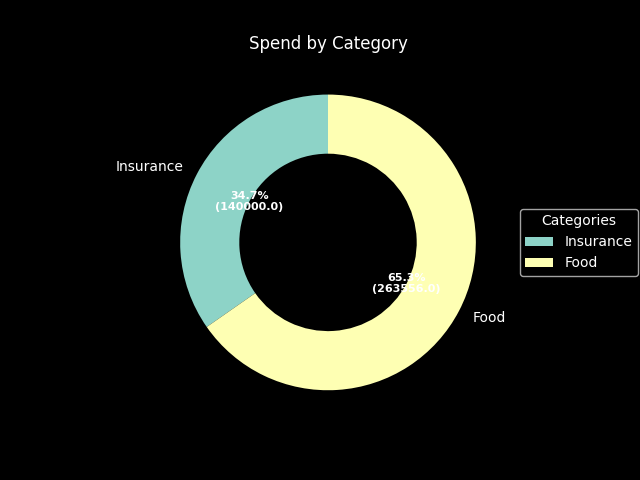
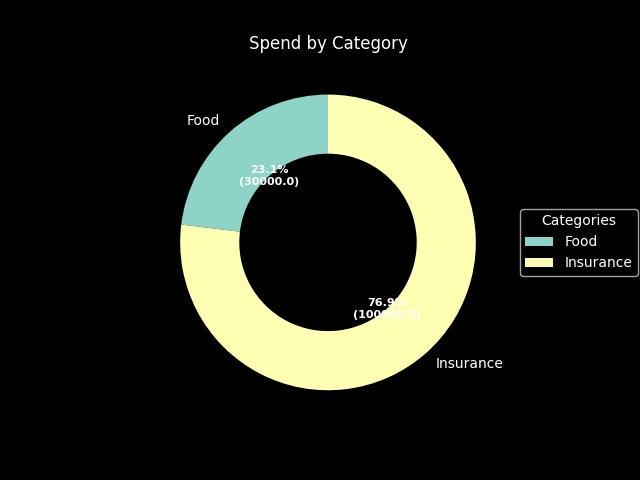
manage transaction feature added

diff --git a/final_project/templates/manage_transactions.html b/final_project/templates/manage_transactions.html
@@ -1,0 +1,143 @@
+{% extends "layout.html" %}
+
+{% block title %}Index{% endblock %}
+
+{% block main %}
+
+<!-- Date filter form -->
+<p class="d-inline-flex gap-1">
+  <button class="btn btn-primary" type="button" data-bs-toggle="collapse" data-bs-target="#multiCollapseExample1" aria-expanded="false" aria-controls="multiCollapseExample1">
+    Filter
+  </button>
+</p>
+<div class="collapse multi-collapse" id="multiCollapseExample1">
+  <div class="card card-body">
+    <p>Date Range</p>
+    <form action="/manage_transactions" method="post">
+        <div class="mb-3">
+            <input autocomplete="off" class="form-control" name="start" placeholder="start date" required type="date">
+        </div>
+        <div class="mb-3">
+            <input autocomplete="off" class="form-control" name="end" placeholder="end date" required type="date">
+        </div>
+         <button class="btn btn-primary" name="transFilter" type="submit">submit</button>
+    </form>
+  </div>
+</div>
+
+    
+    <!-- Table to show user expense transactions-->
+    <table class="table table-striped">
+        <thead>
+            <tr>
+                <th>Account</th>
+                <th>Type</th>
+                <th>Category</th>
+                <th>Date</th>
+                <th>Amount(CHE)</th>
+                <th>Manage Transaction</th>
+            </tr>
+        </thead>
+        <tbody>
+            {% for trans in transactions %}
+            <tr>
+                <td>
+                    {% for account in accounts %}
+                        {% if account.id == trans.account_id %}
+                            {{ account.account_name}}
+                        {% endif %}
+                    {% endfor %}
+                </td>
+                <td>
+                    {{ trans.trans_type }}
+                </td>
+
+                <td>
+                    {{ trans.category }}
+                </td>
+
+                <td>
+                    {{ trans.trans_date }}
+                </td>
+
+                <td>
+                    {{ trans.amount_cents }}
+                </td>
+
+                <td>
+                    <div class="dropdown">
+                        <button class="btn btn-secondary dropdown-toggle" type="button" data-bs-toggle="dropdown" aria-expanded="false">
+                            Options
+                        </button>
+                        <ul class="dropdown-menu">
+
+                            <li>
+                                <form action="/delete_transaction" method="post">
+                                    <button class="dropdown-item" name="deleteTrans" type="submit" value="{{ trans.id }}">Delete</button>
+                                </form>
+                            </li>
+
+                            <li>
+                                <form action="/edit_transactions" method="post">
+                                <button class="dropdown-item" name="editTrans" type="submit" value="{{ trans.id }}">Edit</button>
+                                </form>
+                            </li>
+
+                        </ul>
+                    </div>
+                </td>
+            </tr>
+            {% endfor %}
+        </tbody>
+    </table>
+
+    <!-- Add transaction -->
+
+<p class="d-inline-flex gap-1">
+  <button class="btn btn-primary" type="button" data-bs-toggle="collapse" data-bs-target="#multiCollapseExample2" aria-expanded="false" aria-controls="multiCollapseExample2">
+    Add Transaction
+  </button>
+</p>
+<div class="collapse multi-collapse"" id="multiCollapseExample2">
+  <div class="card card-body">
+        <form action="/add_transaction" method="post">
+
+        <div class="mb-3">
+            <select class="form-control" name="account" required>
+                {% for account in accounts %}
+                    <option value="{{ account.id }}">{{ account.account_name }}</option>
+                {% endfor %}
+            </select>
+        </div> 
+
+        <div class="mb-3">
+            <select class="form-control" name="type">
+                {% for type in types %}
+                    <option value="{{ type }}">{{ type }}</option>
+                {% endfor %}
+            </select>
+        </div> 
+
+        <div class="mb-3">
+            <select class="form-control" name="category">
+                {% for category in categories %}
+                    <option value="{{ category.name }}">{{ category.name }}</option>
+                {% endfor %}
+            </select>
+        </div> 
+
+        <div class="mb-3">
+            <input autocomplete="off" class="form-control" min="0.00" name="amount" placeholder="€0.00" required step="0.01" type="number">
+        </div>
+
+        <div class="mb-3">
+            <input autocomplete="off" class="form-control" name="date" placeholder="today" required type="date">
+        </div>
+        <button class="btn btn-primary" name="addExpense" type="submit">Submit</button>
+
+    </form>
+
+  </div>
+</div>
+
+{% endblock %}

diff --git a/final_project/templates/layout.html b/final_project/templates/layout.html
@@ -36,6 +36,9 @@
                     <li class="nav-item">
                     <a class="nav-link" href="/add_transaction">Add Transaction</a>
                     </li>
+                    <li class="nav-item">
+                    <a class="nav-link" href="/manage_transactions">Manage Transaction</a>
+                    </li>
                 </ul>
                 <ul class="navbar-nav">
                   <li class="nav-item">

diff --git a/final_project/app.py b/final_project/app.py
@@ -5,7 +5,7 @@ from dateutil.relativedelta import relativedelta
 from decimal import Decimal, ROUND_HALF_UP
 from flask import Flask, flash, redirect, render_template, Response, request, session
 from flask_session import Session
-from helpers import conDbDict, getBar, getLine, getPie, getTrans, getUser
+from helpers import conDbDict, getBar, getLine, getPie, getTrans, getTransDate, getUser
 import matplotlib
 matplotlib.use("Agg")
 import matplotlib.dates as mdates
@@ -70,7 +70,7 @@ def add_cat():
             cur.execute("INSERT INTO categories (name, user_id) values (?, ?)", (newCat, user["id"],))
             con.commit()
             # Close connection and redirect to index
-            con.close
+            con.close()
             return redirect("/add_transaction")
 
     else:
@@ -123,12 +123,28 @@ def add_transaction():
                 return render_template("error.html", message="invalid type submission")
         
         # Insert into DB, close connection & redirect
-        cur.execute("INSERT INTO transactions (account_id, amount_cents, category, created_by_user_id, trans_date, trans_type) values (?, ?, ?, ?, ?, ?)", (account, amount_cents, category, user["id"], date, trans_type))
+        cur.execute("INSERT INTO transactions (account_id, amount_cents, category, created_by_user_id, trans_date, trans_type) values (?, ?, ?, ?, ?, ?)", (account, amount_cents, category, user["id"], date, trans_type,))
         con.commit()
 
         con.close()
 
-        return redirect("/add_transaction")
+        return redirect(request.referrer or "/manage_transactions")
+
+
+@app.route("/delete_transaction", methods=["POST"])
+def delete_transaction():
+
+    transId = request.form.get("deleteTrans")
+
+    con = conDbDict()
+    cur = con.cursor()
+
+    cur.execute("DELETE FROM transactions WHERE id = ?", (transId,))
+    con.commit()
+    con.close()
+
+    return redirect("/manage_transactions")
+
 
 # Generate Charts
 @app.route("/get_charts", methods=["GET", "POST"])
@@ -210,8 +226,7 @@ def get_charts():
         user = getUser()
 
         # Fetch user transaction
-        transactions = cur.execute("SELECT amount_cents, category, trans_date, trans_type FROM transactions where created_by_user_id = ? AND trans_date BETWEEN ? and ? ORDER BY trans_date", (user["id"], start, end,)).fetchall()
-
+        transactions = getTransDate(start, end)
         # Get user Accounts
         accounts = cur.execute("SELECT account_name, balance_cents, id FROM accounts WHERE user_id = ?", (user["id"],)).fetchall()
                
@@ -272,6 +287,48 @@ def logout():
     #redirect to index
     return redirect("/")
 
+
+@app.route("/manage_transactions", methods = ["GET", "POST"])
+def manage_transactions():
+
+    if (request.method == "GET"):
+
+        # Set start and end dates as first and last day of current month
+        # Todo: this code is repeated fit whole transaction date setting into helper function
+        current_date = date.today()
+        start = current_date + relativedelta(day=1)
+        end = current_date + relativedelta(day=31)
+        
+        trasactions = getTransDate(start, end)
+
+        con = conDbDict()
+        cur = con.cursor()
+
+        user = getUser()
+
+        accounts = cur.execute("SELECT account_name, balance_cents, id FROM accounts WHERE user_id = ?", (user["id"],)).fetchall()
+        categories = cur.execute("SELECT name FROM categories WHERE user_id = ?", (user["id"],)).fetchall()
+
+        return render_template("manage_transactions.html", accounts=accounts, categories=categories, transactions=trasactions, types=TYPES)
+    
+    else:
+        # Set start and end dates as first and last day of current month
+        start = request.form.get("start")
+        end = request.form.get("end")
+        
+        trasactions = getTransDate(start, end)
+
+        con = conDbDict()
+        cur = con.cursor()
+
+        user = getUser()
+
+        accounts = cur.execute("SELECT account_name, balance_cents, id FROM accounts WHERE user_id = ?", (user["id"],)).fetchall()
+        categories = cur.execute("SELECT name FROM categories WHERE user_id = ?", (user["id"],)).fetchall()
+
+        return render_template("manage_transactions.html", accounts=accounts, categories=categories, transactions=trasactions, types=TYPES)
+    
+
 # Register user
 @app.route("/register", methods=["GET", "POST"])
 def register():
@@ -305,7 +362,7 @@ def register():
         con.commit()
 
         # Login user
-        session["user_id"] = cur.execute("SELECT id FROM users WHERE username = ?", (username.lower(),)).fetchall()[0]["id"]        
+        session["user_id"] = cur.execute("SELECT id FROM users WHERE username = ?", (username,)).fetchall()[0]["id"]        
 
         #todo: Close DB & redirect to index
         con.close()

diff --git a/final_project/helpers.py b/final_project/helpers.py
@@ -25,6 +25,7 @@ def getUser():
     user = cur.execute("SELECT id, username FROM users WHERE id = ?", (session["user_id"],)).fetchone()
 
     con.close()
+
     return user
 
 def getBar(start, end):
@@ -37,7 +38,7 @@ def getBar(start, end):
 
      totIncome = cur.execute("SELECT IFNULL(SUM(amount_cents) ,0) FROM transactions WHERE created_by_user_id = ? AND trans_type = ? and trans_date BETWEEN ? AND ?", (user["id"], TYPES[1], start, end,)).fetchone()[0]
 
-
+     con.close()
 
     # Generate & save bargraph
      plt.style.use('dark_background')
@@ -46,7 +47,6 @@ def getBar(start, end):
      ax.bar(TYPES[0], totExpense)
      plt.savefig('static/my_bar_expesne_vs_income.png')
 
-     con.close()
      # Verify
      if os.path.exists('static/my_bar_expesne_vs_income.png'):
           return True
@@ -94,11 +94,14 @@ def getLine(start, end):
              return False
 
 def getPie(start, end):
+
      con = conDbDict()
      cur = con.cursor()
      user = getUser()
 
      data = cur.execute("SELECT category, sum(amount_cents) as totals FROM transactions WHERE created_by_user_id = ? AND trans_type = ? AND trans_date BETWEEN ? AND ? GROUP BY category ORDER BY totals", (user["id"], TYPES[0], start, end,)).fetchall()
+
+     con.close()
 
      categories = []
      totals = []
@@ -139,8 +142,6 @@ def getPie(start, end):
      plt.savefig('static/my_pie_expenses.png')
      plt.close(fig)
 
-
-     con.close()
      if os.path.exists('static/my_pie_expenses.png'):
           return True
      else:
@@ -153,16 +154,26 @@ def getTrans(limit = 0):
     user = getUser()
 
     if (limit == 0):
-        transactions = cur.execute("SELECT amount_cents, category, trans_date, trans_type FROM transactions where created_by_user_id = ? ORDER BY trans_date", (user["id"],)).fetchall()
+        transactions = cur.execute("SELECT amount_cents, category, id, trans_date, trans_type FROM transactions where created_by_user_id = ? ORDER BY trans_date", (user["id"],)).fetchall()
     else:
-        query = f"""SELECT amount_cents, category, trans_date, trans_type FROM transactions where created_by_user_id = ? ORDER BY trans_date LIMIT {int(limit)}
+        query = f"""SELECT amount_cents, category, trans_date, id, trans_type FROM transactions where created_by_user_id = ? ORDER BY trans_date LIMIT {int(limit)}
         """
 
         transactions = cur.execute(query, (user["id"], )).fetchall()
 
     con.close()
     return transactions
-         
+
+def getTransDate(start, end):
+     
+     user = getUser()
+
+     con = conDbDict()
+     cur = con.cursor()
+     
+     transactions = cur.execute("SELECT account_id, amount_cents, category, id, trans_date, trans_type FROM transactions where created_by_user_id = ? AND trans_date BETWEEN ? and ? ORDER BY trans_date", (user["id"], start, end,)).fetchall()
+     
+     return transactions     
 
 
      
